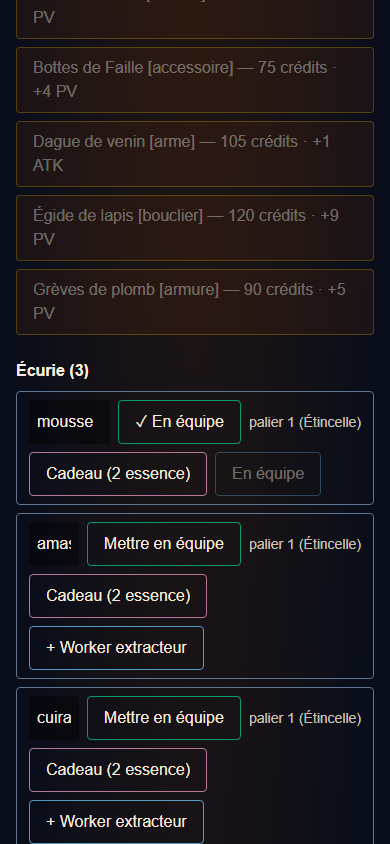
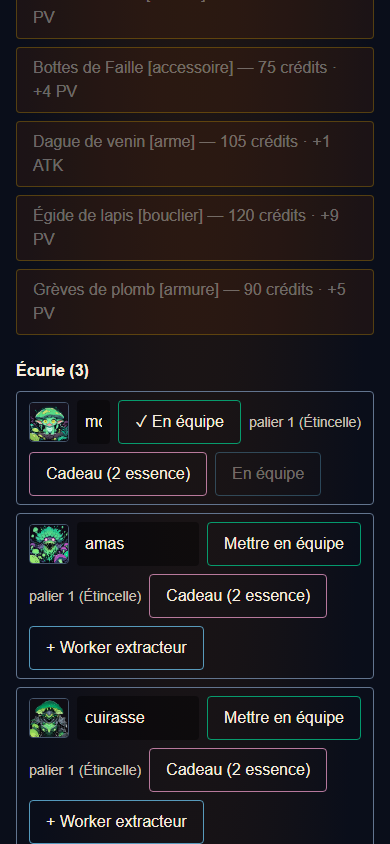
R10-08 (suite): variantes -evo des portraits branchées (compagnon évolué, palier 4)
24 variantes <base>-evo.png déposées (512 px, ~21 Mo au total) depuis le
dossier de génération ComfyUI (out/ avait été réexporté par le build).
portraitUrl(id, evolved) résout la variante -evo ; affichée dans le combat
(companionEvolved passé par App) et dans l'écurie (ForgeScreen, fallback
code-gen conservé). Test : chaque entité a base + evo déposée.

Preuves locales (exit 0) : vitest 84 fichiers / 263 tests OK ;
e2e forge + compagnon 2 tests OK ; build OK.

Generated by Mistral Vibe.

Changed region(s): [[0.0615, 0.6161, 0.9231, 0.7393], [0.0615, 0.8318, 0.9231, 0.9242], [0.0615, 0.4621, 0.2769, 0.5237]]

diff --git a/tests/r9-07-portraits.test.ts b/tests/r9-07-portraits.test.ts
@@ -1,4 +1,6 @@
 import { describe, it, expect } from 'vitest';
+import fs from 'node:fs';
+import path from 'node:path';
 // R9-07 — Intégration UI des portraits IA (docs/ASSETS.md) : mapping entité -> fichier,
 // fallback code-gen si absent, télégraphie par flash, teintes lien/élite. UI uniquement.
 import { PORTRAIT_FILE, PORTRAIT_DIR, entityIdOf, isEliteId, portraitUrl, portraitFallbackUrl, bondTierTint, ELITE_TINT } from '../src/ui/portraits';
@@ -34,5 +36,23 @@ describe('R9-07 mapping portraits IA (docs/ASSETS.md)', () => {
     expect(bondTierTint(1)).toBe('');
     expect(bondTierTint(5)).toContain('drop-shadow');
     expect(ELITE_TINT).toContain('drop-shadow');
+  });
+});
+
+// R10-08 : variantes évoluées (-evo.png) — une par entité, et portraitUrl les résout.
+describe('R10-08 — variantes -evo des portraits', () => {
+  it('chaque entité a son fichier de base ET sa variante -evo déposée', () => {
+    for (const [entity, file] of Object.entries(PORTRAIT_FILE)) {
+      const base = path.join(__dirname, '..', 'public', PORTRAIT_DIR, file);
+      const evo = base.replace(/\.png$/, '-evo.png');
+      expect(fs.existsSync(base), `base manquante: ${file}`).toBe(true);
+      expect(fs.existsSync(evo), `evo manquante pour ${entity}`).toBe(true);
+    }
+  });
+
+  it('portraitUrl(entity, true) -> variante -evo.png', () => {
+    expect(portraitUrl('mousse')).toBe('assets/portraits/mousse.png');
+    expect(portraitUrl('mousse', true)).toBe('assets/portraits/mousse-evo.png');
+    expect(portraitUrl('cuirasse', true)).toBe('assets/portraits/champignon-cuirasse-evo.png');
   });
 });

diff --git a/src/ui/screens/CombatScreen.tsx b/src/ui/screens/CombatScreen.tsx
@@ -16,12 +16,14 @@ export default function CombatScreen({
   onAction,
   onEnd,
   companionBondTier = 1,
+  companionEvolved = false,
 }: {
   combat: CombatState;
   discovered: string[];
   onAction: (a: CombatAction) => void;
   onEnd: (result: 'won' | 'lost' | 'fled' | 'challenge-failed', loot: CombatState['loot'], ko?: boolean) => void;
   companionBondTier?: number; // R8-02 — teinte de lien par palier sur le portrait du compagnon
+  companionEvolved?: boolean; // R10-08 — portrait -evo.png si le compagnon est évolué (palier 4)
 }) {
   const [menu, setMenu] = useState<'root' | 'items' | 'attack' | 'companions'>('root');
   // R9-03 juice : flash d'impact par élément + tremblement sur gros dégâts + fondu d'entrée
@@ -120,7 +122,7 @@ export default function CombatScreen({
           {(() => {
             const def = Object.values(COMPANION_BY_MONSTER).find((d) => d.id === combat.companion!.defId);
             const mid = def?.monsterId ?? 'mousse';
-            const png = portraitUrl(mid);
+            const png = portraitUrl(mid, companionEvolved);
             const fallback = portraitFallbackUrl(mid);
             return (
               // eslint-disable-next-line @next/next/no-img-element

diff --git a/src/ui/screens/ForgeScreen.tsx b/src/ui/screens/ForgeScreen.tsx
@@ -240,6 +240,18 @@ export default function ForgeScreen({
           <ul className="flex flex-col gap-2">
             {f.roster.map((id) => (
               <li key={id} className="flex flex-wrap items-center gap-2 rounded border border-slate-500 px-3 py-2" style={btnStyle}>
+                {/* R10-08 : portrait du compagnon (variante -evo.png si évolué), fallback code-gen */}
+                <img
+                  src={portraitUrl(id, f.evolved[id] ?? false) || '/assets/forge.svg'}
+                  onError={(ev) => {
+                    const fb = `/assets/monster-${id}.svg`;
+                    if (!ev.currentTarget.src.endsWith(fb)) ev.currentTarget.src = fb;
+                  }}
+                  alt={f.companionNames[id] ?? id}
+                  width={40}
+                  height={40}
+                  className="shrink-0 rounded border border-slate-600 object-cover"
+                />
                 <input
                   value={nameDrafts[id] ?? f.companionNames[id] ?? id}
                   onChange={(e) => setNameDrafts((d) => ({ ...d, [id]: e.target.value }))}

diff --git a/src/ui/portraits.ts b/src/ui/portraits.ts
@@ -47,9 +47,11 @@ export function isEliteId(combatEnemyId: string): boolean {
 }
 
 // Chemin relatif du portrait PNG (sans extension vérifiée côté client).
-export function portraitUrl(entityId: string): string {
+// R10-08 : variante évoluée (`<base>-evo.png`) quand le compagnon est évolué (palier 4).
+export function portraitUrl(entityId: string, evolved = false): string {
   const file = PORTRAIT_FILE[entityId];
-  return file ? `${PORTRAIT_DIR}/${file}` : '';
+  if (!file) return '';
+  return `${PORTRAIT_DIR}/${evolved ? file.replace(/\.png$/, '-evo.png') : file}`;
 }
 
 // Fallback code-gen (R6-09) si le PNG est absent.

diff --git a/src/ui/App.tsx b/src/ui/App.tsx
@@ -325,6 +325,7 @@ export default function App() {
         onAction={onCombatAction}
         onEnd={onCombatEnd}
         companionBondTier={state.forge.team[0] ? (state.forge.bondTier[state.forge.team[0]] ?? 1) : 1}
+        companionEvolved={state.forge.team[0] ? (state.forge.evolved[state.forge.team[0]] ?? false) : false}
       />
     );
   }

diff --git a/docs/ASSETS.md b/docs/ASSETS.md
@@ -3,7 +3,8 @@
 > 23 portraits générés par IA (Mistral) pour Riftforge, style anime cel-shadé cohérent,
 > palettes par biome respectées (cf. `BIOME_PALETTES` dans `src/data/biomes.ts`).
 > Licence : générés pour ce projet — utilisation libre dans Riftforge, tous droits réservés au projet.
-> **Fichiers déposés dans `public/assets/portraits/`** (session R10-08, 24 portraits, 512x512, ~10 Mo).
+> **Fichiers déposés dans `public/assets/portraits/`** (session R10-08, 24 portraits + 24 variantes `-evo`, 512x512, ~21 Mo).
+> Convention étendue : `<base>-evo.png` = portrait affiché quand le compagnon est **évolué** (palier 4, R8-03) — `portraitUrl(id, true)`.
 > Tant qu'un fichier est absent, le fallback code-gen reste la règle (BRIEF-6-9 §2) — jamais d'écran vide.
 
 ## Convention de nommage (fichets attendus dans `public/assets/portraits/`)
